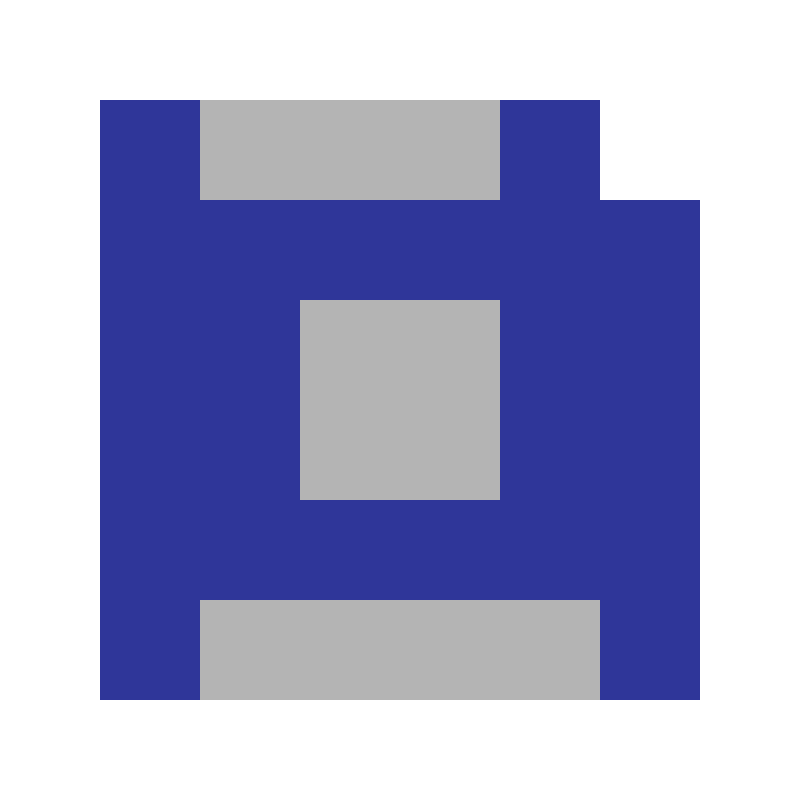
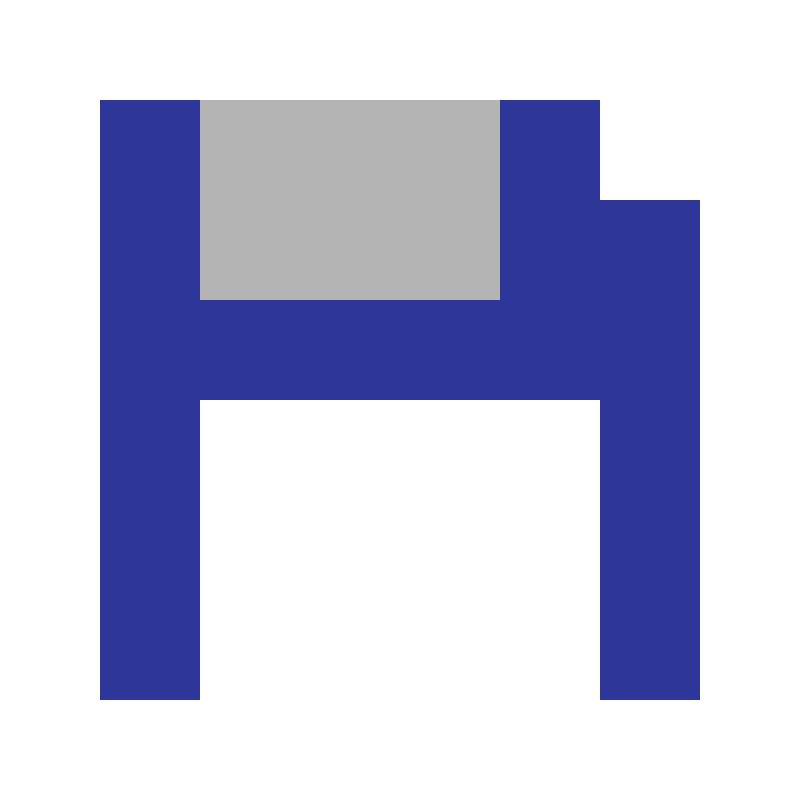
button images, again!

Changed region(s): [[0.25, 0.25, 0.75, 0.875]]

diff --git a/Tagagatchi/src/UI.java b/Tagagatchi/src/UI.java
@@ -131,7 +131,18 @@ public class UI extends Game{
         };
         napButton.addActionListener(a9);
 
-        JButton saveButton = new JButton("Save");
+        JButton saveButton = new JButton();
+
+        // Save button image
+        try {
+            BufferedImage unscaled = ImageIO.read(this.getClass().getResource("save.png"));
+            Image img = unscaled.getScaledInstance(20, 20, Image.SCALE_SMOOTH);
+            ImageIcon icon = new ImageIcon(img);
+            saveButton.setIcon(icon);
+        } catch (IOException e) {
+            e.printStackTrace();
+        }
+
         ActionListener a2 = new ActionListener() {
             public void actionPerformed(ActionEvent ae){
                 if (!paused)
@@ -141,12 +152,25 @@ public class UI extends Game{
         saveButton.addActionListener(a2);
 
         JButton pauseButton = new JButton();
+
+        // Default image for the pause button
+        try {
+            BufferedImage unscaled = ImageIO.read(this.getClass().getResource("pause.png"));
+            Image img = unscaled.getScaledInstance(20, 20, Image.SCALE_SMOOTH);
+            ImageIcon icon = new ImageIcon(img);
+            pauseButton.setIcon(icon);
+        } catch (IOException e) {
+            e.printStackTrace();
+        }
+
         ActionListener a3 = new ActionListener() {
             public void actionPerformed(ActionEvent ae){
                 BufferedImage unscaled;
                 Image img;
-                ImageIcon icon = new ImageIcon(this.getClass().getResource("pause.png"));
+                ImageIcon icon = new ImageIcon();
                 paused = !paused;
+                
+                // Toggle image depending on game state
                     try {
                         if (paused)
                         {
@@ -159,7 +183,6 @@ public class UI extends Game{
                             icon = new ImageIcon(img);
                         }
                     } catch (IOException e) {
-                        // TODO Auto-generated catch block
                         e.printStackTrace();
                     }
                 pauseButton.setIcon(icon);
